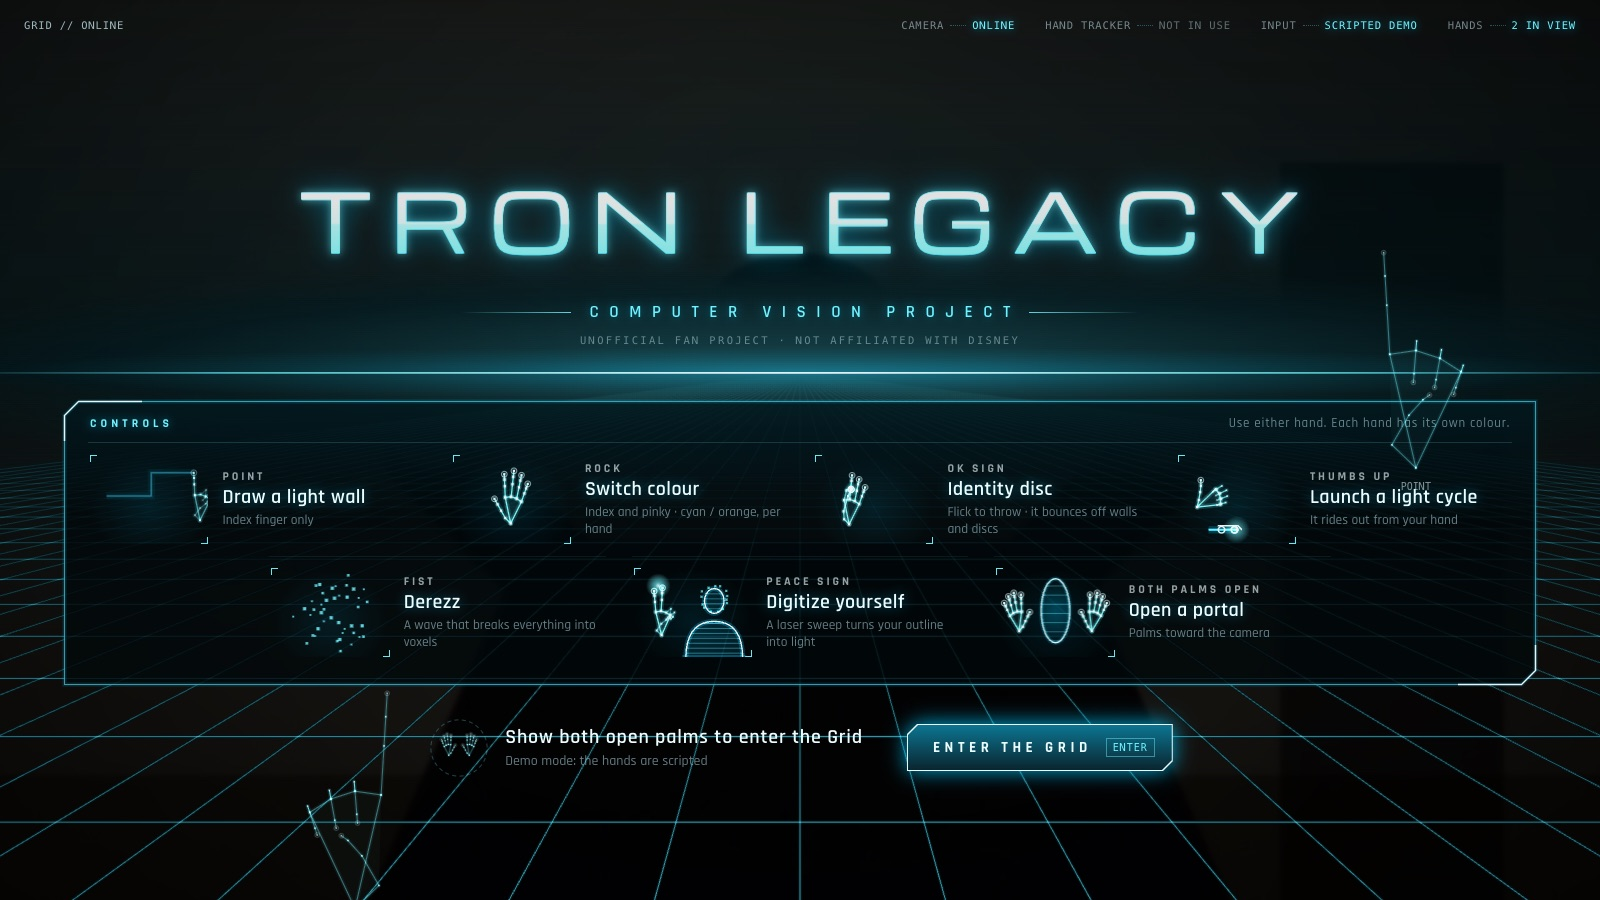
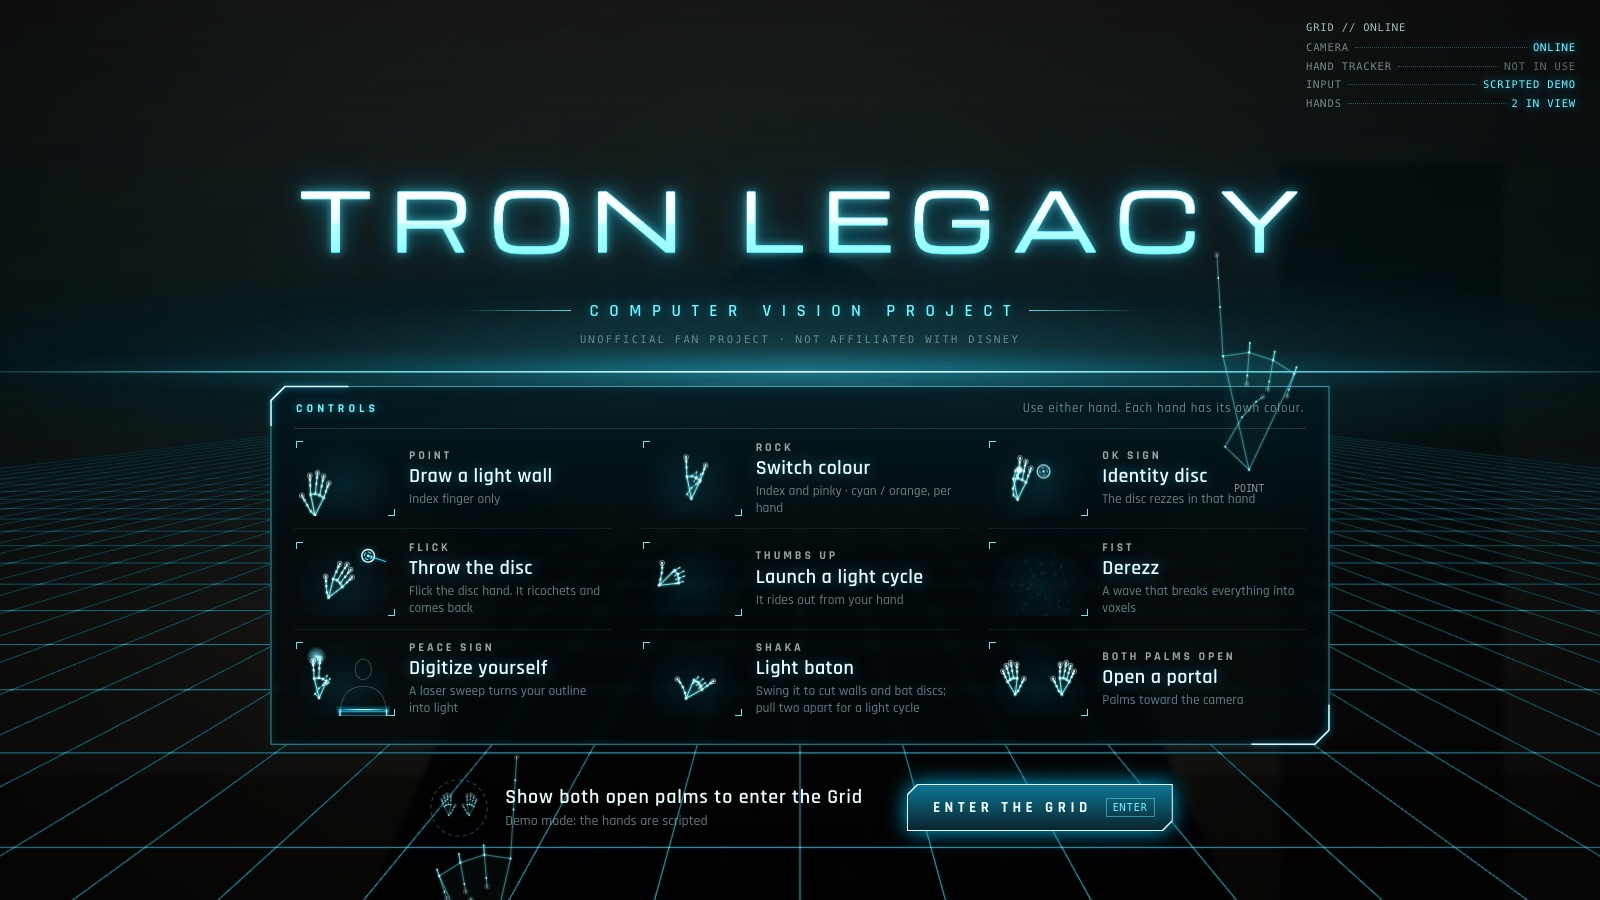
Deploy on Vercel, fix the page title

diff --git a/index.html b/index.html
@@ -4,8 +4,8 @@
 <meta charset="utf-8">
 <meta name="viewport" content="width=device-width, initial-scale=1">
 <link rel="icon" href="data:,">
-<title>Stardust</title>
-<meta name="description" content="Hand-tracked particle effects composited over your webcam, in the browser.">
+<title>Tron Legacy CV</title>
+<meta name="description" content="TRON: Legacy light walls, identity discs, batons and light cycles over your webcam, controlled with hand gestures.">
 <style>
   html, body { margin: 0; height: 100%; background: #000; overflow: hidden; }
   #stage { position: fixed; inset: 0; }

diff --git a/README.md b/README.md
@@ -7,8 +7,8 @@
 I love TRON: Legacy. The Grid, the light cycles, the identity discs, the Daft Punk soundtrack: I've rewatched
 it more times than I'd like to admit, and I always wanted to throw an identity disc myself. So I built the
 next best thing. **Tron Legacy CV** turns your webcam into the Grid: you draw light walls with your finger,
-summon a disc, throw it so it ricochets off the walls you drew, launch light cycles, derezz everything with a
-fist and get digitized by the laser, all with hand gestures, live in the browser.
+summon a disc, throw it so it ricochets off the walls you drew, swing a light baton, launch light cycles,
+derezz everything with a fist and get digitized by the laser, all with hand gestures, live in the browser.
 
 It's a computer vision project at heart: MediaPipe tracks 21 landmarks on each hand, and everything you see is
 driven by a gesture recognizer I built on top of those landmarks. It runs entirely in your browser. Nothing
@@ -16,7 +16,7 @@ is uploaded anywhere.
 
 **▶ Live demo:** https://tron-legacy-cv.vercel.app (allow the camera, or watch the scripted demo without one)
 
-- **Eight gestures, two hands**: point, rock, OK, flick, thumbs up, fist, peace and both open palms
+- **Nine gestures, two hands**: point, rock, OK, flick, thumbs up, fist, peace, shaka and both open palms
   together. Each hand plays independently and has its own team colour, TRON cyan or CLU orange.
 - **Finger-level gesture recognition**: per-finger joint angles, thumb-to-fingertip contacts with
   hysteresis, palm orientation and handedness, all measured relative to palm size, so it works at any
@@ -40,6 +40,7 @@ is uploaded anywhere.
 | 👍 **Thumbs up** | Launches a light cycle that drops onto the Grid and races across it |
 | ✊ **Fist** | Derezz: walls, discs and cycles shatter into voxels |
 | ✌ **Peace** | The digitizing laser sweeps over you and turns your outline into light |
+| 🤙 **Shaka** (thumb + pinky) | A light baton in your hand: swing it to cut walls and bat discs away. Pull two batons apart and they rezz a light cycle |
 | 🖐🖐 **Both palms open**, facing the camera | Opens a portal of light between your hands and lights up the Grid |
 
 <table>
@@ -54,6 +55,10 @@ is uploaded anywhere.
   <tr>
     <td><img src="media/derezz.jpg" alt="A fist sending out a derezz wave that shatters a wall into voxels"><br><b>Fist:</b> derezz</td>
     <td><img src="media/light-cycles.jpg" alt="A cyan and an orange light cycle racing across the Grid"><br><b>Thumbs up:</b> light cycles on the Grid</td>
+  </tr>
+  <tr>
+    <td><img src="media/baton.jpg" alt="An orange light baton swung through a light wall, leaving a glowing arc"><br><b>Shaka:</b> a light baton cutting through a wall</td>
+    <td><img src="media/baton-cycle.jpg" alt="A light cycle rezzing between two hands that held batons"><br>Two batons pulled apart rezz a light cycle</td>
   </tr>
   <tr>
     <td><img src="media/digitize.jpg" alt="The digitizing laser turning a person's silhouette into an orange grid of light"><br><b>Peace:</b> the digitizing laser (here on a synthetic test video)</td>
@@ -75,8 +80,11 @@ flowchart LR
     G --> H[Screen-blended<br/>over the camera]
 ```
 
-1. **Tracking** (`src/hands.js`): MediaPipe's Hand Landmarker runs on every new webcam frame (GPU delegate,
-   CPU fallback) and returns 21 landmarks per hand.
+1. **Tracking** (`src/hands.js`, `src/tracker-worker.js`): MediaPipe's Hand Landmarker runs in a Web Worker
+   (GPU delegate, CPU fallback). Each new webcam frame goes over as an `ImageBitmap`, one frame in flight at a
+   time, and 21 landmarks per hand come back. Loading the model and warming up its shaders stalls for over half
+   a second, and in the worker that never freezes the animation. Browsers without module-worker support fall
+   back to the main thread.
 2. **Hand space**: the landmarks are mirrored to match the selfie view, mapped through the `object-fit: cover`
    crop of the full-screen video, and scaled so x, y and z share one unit. Every measurement is then divided
    by the palm length (wrist to middle knuckle), so a gesture reads the same close to the camera and far from it.
@@ -138,7 +146,7 @@ npm run shot -- ./ --query "demo=1&skipintro"   # headless screenshots with a fa
 ```
 
 `npm test` runs every pose of the procedural hand through the recognizer for both hands, palm in and out and
-tilted (655 checks). The screenshot tool drives headless Chrome on the real GPU with a fake webcam; all the
+tilted (727 checks). The screenshot tool drives headless Chrome on the real GPU with a fake webcam; all the
 pictures in this README come from it.
 
 ## Project structure
@@ -148,12 +156,13 @@ index.html              page, import map, layers (camera, effect, UI)
 src/
   main.js               host: camera background, effect loop, intro
   hands.js              tracking, hand space, handedness, events, demo/mouse input
+  tracker-worker.js     MediaPipe hand landmarker in a Web Worker
   gestures.js           finger analysis, gesture classifier, thresholds, procedural hand
   segmentation.js       selfie segmentation for the digitizing laser
   tuning.js             live tuning panel (G)
   ui.js                 status and keyboard shortcuts
   intro*.js, intro.css  camera gate, boot sequence, controls, entering the Grid
-  effects/tron/         walls, discs, cycles, voxels, portal, Grid, HUD, digitize, demo
+  effects/tron/         walls, discs, baton, cycles, voxels, portal, Grid, HUD, digitize, demo
 tools/
   test-gestures.mjs     recognition tests
   shot.mjs              headless screenshots
